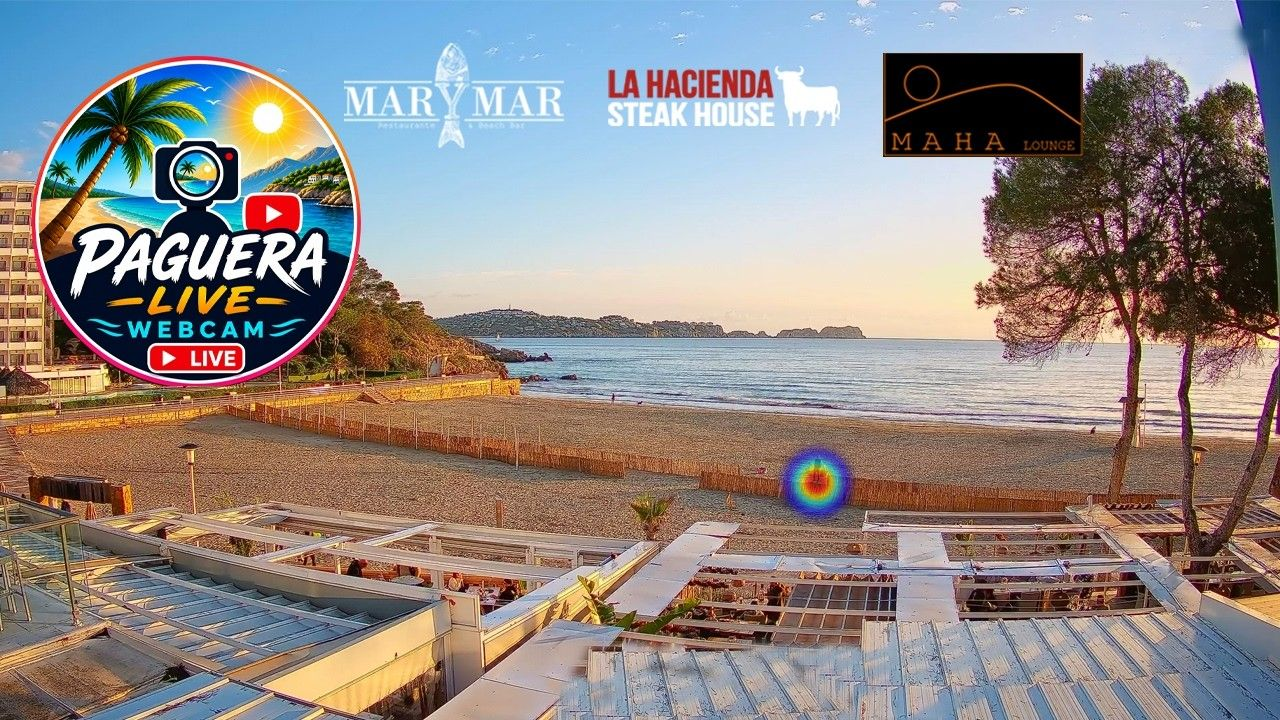
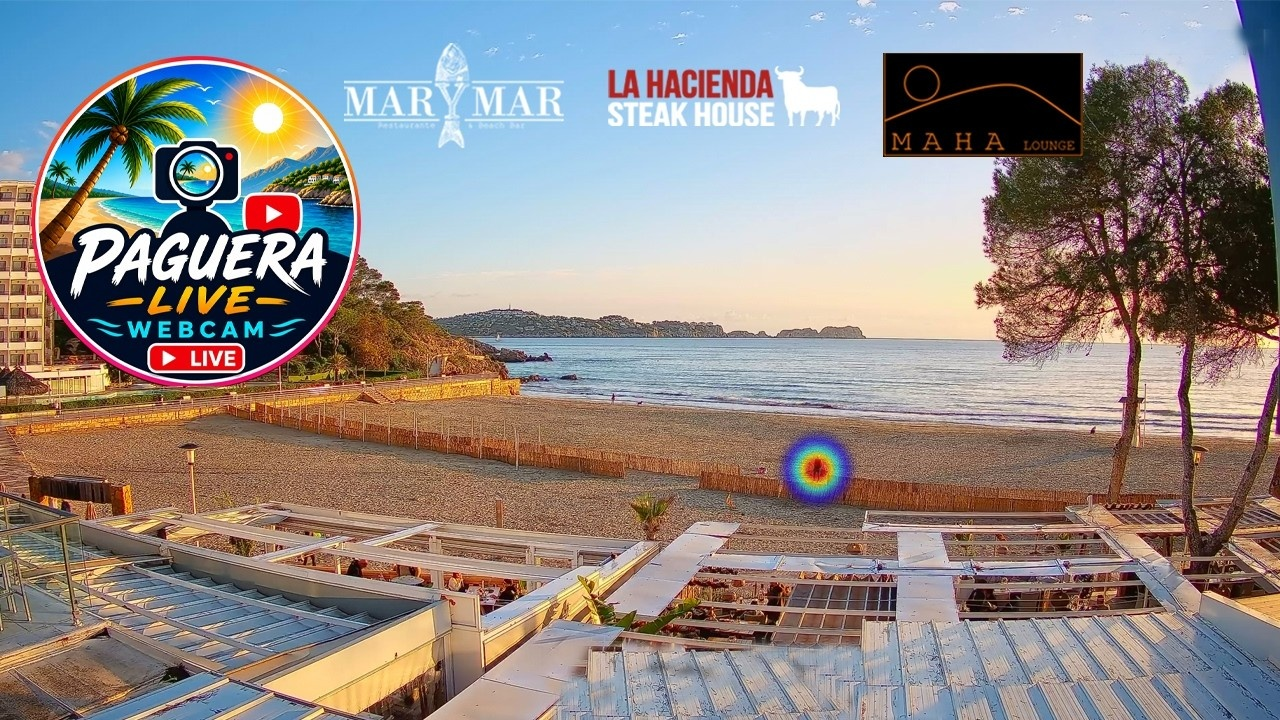
Splat at bbox centre, not foot point
Foot-point (bbox centre-bottom) was wrong for beach cameras: most
detections are people lying on sunbeds or towels, where the bbox is
horizontal and "bottom of box" is the side of the body, not the feet.
Bbox centre is correct for any orientation.

Detection now exposes bbox width/height too, so future iterations can
weight by apparent size or splat the bbox shape instead of a point.

The refreshed samples/served-overlay.jpg shows the heat blobs now sit
on the bodies of detected people rather than projecting to the sand
below them. samples/detection-annotated.jpg shows the centres (green)
vs old foot-points (magenta) side by side.

https://claude.ai/code/session_01CTACdTgghhcFgopbSQggMB

Changed region(s): [[0.5938, 0.5806, 0.6875, 0.7333]]

diff --git a/backend/detect.py b/backend/detect.py
@@ -1,9 +1,14 @@
 """Person detection via YOLO.
 
-Returns per-person foot positions (centre-bottom of each bounding box),
-which is what we want for a top-down-ish heatmap of where people stand
-on the beach. Bounding-box centres bias toward where torsos appear,
-which sits higher up the frame and clusters less helpfully.
+Returns per-person bounding-box centres. A "foot point" (centre-bottom
+of box) makes sense for standing crowds, but on a beach cam most
+detections are people lying flat on sunbeds or towels — the bbox is
+horizontal and the bottom edge is the side of their body, not their
+feet. Bbox centre is correct for any orientation.
+
+The bbox width/height come along so callers can weight by apparent
+size (closer / larger people contributing more density), or render
+per-detection rectangles instead of point splats.
 """
 from __future__ import annotations
 
@@ -22,8 +27,12 @@ _model = None
 
 @dataclass
 class Detection:
-    x: float  # foot point, in analysis-resolution pixels
-    y: float
+    """One person detection in analysis-resolution pixel coordinates."""
+
+    x: float  # bbox centre, x
+    y: float  # bbox centre, y
+    w: float  # bbox width
+    h: float  # bbox height
     confidence: float
 
 
@@ -73,8 +82,12 @@ def detect_people(
             xyxy = boxes.xyxy.cpu().numpy()
             confs = boxes.conf.cpu().numpy() if boxes.conf is not None else np.ones(len(xyxy))
             for (x1, y1, x2, y2), c in zip(xyxy, confs):
-                foot_x = (x1 + x2) / 2.0
-                foot_y = y2  # bottom of the box ≈ feet
-                detections.append(Detection(x=float(foot_x), y=float(foot_y), confidence=float(c)))
+                cx = (x1 + x2) / 2.0
+                cy = (y1 + y2) / 2.0
+                detections.append(Detection(
+                    x=float(cx), y=float(cy),
+                    w=float(x2 - x1), h=float(y2 - y1),
+                    confidence=float(c),
+                ))
 
     return detections, (analysis_width, target_h)

diff --git a/README.md b/README.md
@@ -20,13 +20,18 @@ YouTube live  ──►  yt-dlp (HLS URL)  ──►  OpenCV frame capture
 
 ## What the heatmap shows
 
-Each detected person contributes a Gaussian blob at their estimated foot
-position. Detections persist for 10 minutes but decay with a 3-minute
-half-life, so the colour intensity reflects "where people have been
-recently", weighted toward right now. Empty stretches of beach stay
-uncoloured. The numeric **People in frame** counter is just the most
-recent detection count, mapped to four busyness bands (quiet / moderate
-/ busy / packed).
+Each detected person contributes a Gaussian blob at their bounding-box
+centre. (An earlier version used the bbox bottom — "foot point" — but
+beach cams catch a lot of people lying on sunbeds or towels, where the
+bbox is horizontal and the bottom edge is the side of the body, not
+the feet. Centre is correct for any orientation.)
+
+Detections persist for 10 minutes but decay with a 3-minute half-life,
+so the colour intensity reflects "where people have been recently",
+weighted toward right now. Empty stretches of beach stay uncoloured.
+The numeric **People in frame** counter is just the most recent
+detection count, mapped to four busyness bands (quiet / moderate /
+busy / packed).
 
 ## Project layout
 

diff --git a/samples/README.md b/samples/README.md
@@ -31,7 +31,16 @@ may differ from the live content).
 
 ## `santa-ponsa-camera-overlay.jpg`
 
-The heatmap overlay produced by the **new default** model (`yolov8m`
-@ 1920 px, conf=0.20) running against `santa-ponsa-camera-view.jpg`.
-Demonstrates that the upgraded defaults catch a person on the sand
-that the original `yolov8n` @ 960 defaults missed entirely.
+The heatmap overlay produced by the **current defaults** (`yolov8m`
+@ 1920 px, conf=0.20, bbox-centre splat) running against
+`santa-ponsa-camera-view.jpg`. Demonstrates that the upgraded defaults
+catch a person on the sand that the original `yolov8n` @ 960 defaults
+missed entirely.
+
+## `detection-annotated.jpg`
+
+Per-person annotation on the crowded-beach photo: yellow bbox, green
+dot = bbox centre (where heat is placed now), magenta dot = old
+foot-point. Shows why centres are the right choice for a beach cam:
+prone bodies have horizontal bboxes whose bottom edge is the side of
+the person, not their feet.
